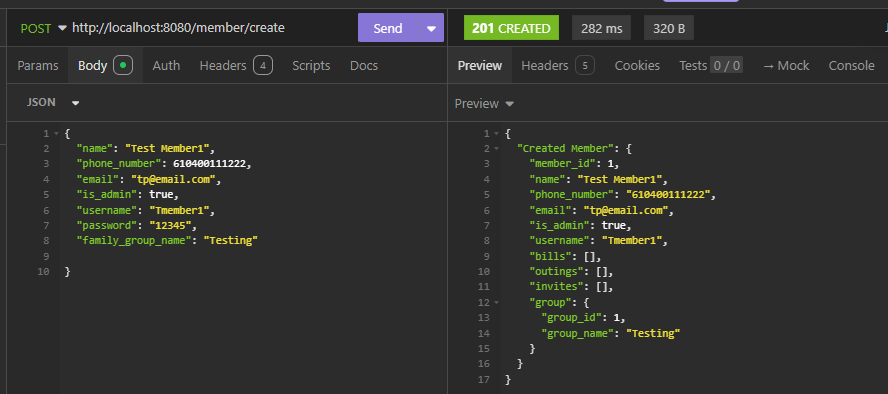
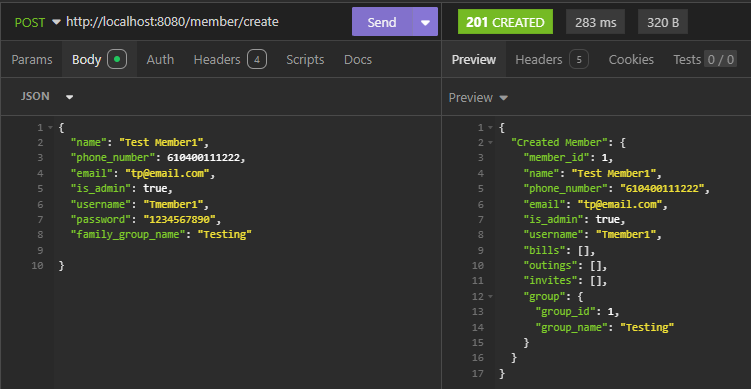
decided to add code to check password length for member create & member update

diff --git a/src/controllers/mem_controller.py b/src/controllers/mem_controller.py
@@ -25,6 +25,10 @@ def create_member():
             pass
         else:
             return {"Error": "Some fields are missing or empty = name, username, password & family group name must have data entered."}, 404
+        
+# check if the password length is between 8 and 12 characters
+        if not (8 <= len(password) <= 12):
+            return {"Error": "The password must be between 8 and 12 characters long. Please re-enter a new password."}, 400
 # checking if the member is going to be a administrator. If = true, then calls the create group function to create the group name entered.
         admin = body_data.get("is_admin")
         if admin:
@@ -116,6 +120,9 @@ def update_member(id):
             return {
             "Error": f"Member with id: {id} does not exist in your family group. Update not permitted."
         }, 404
+# check if the password length is between 8 and 12 characters
+        if not (8 <= len(password) <= 12):
+            return {"Error": "The password must be between 8 and 12 characters long. Please re-enter a new password."}, 400
 # if the member is a administrator then,
 # update the fields present in the json request or leave as current:
         if member2.is_admin:
@@ -139,7 +146,7 @@ def update_member(id):
     except ValidationError as err:
         return {"Error": f"These fields do not exist: {err}, please remove."}, 400
     except AttributeError:
-        return {"Error": "Invalid member token."},404
+        return {"Error": "Invalid member token or id entered."},404
 # this is the route location and method to be used to delete a member (must have a token):   
 @member_bp.route("/delete/<int:id>", methods= ["DELETE"])
 @jwt_required()

diff --git a/README.md b/README.md
@@ -290,6 +290,10 @@ How to use the Family Schedulers API endpoints are as follows:
 
 ![create member error handling](./docs/member_error_handling.png)
 
+        5. (During testing/coding) = decided to add code to check for the password length. If not between 8-12 characters = display error to advise member to change their password:
+
+![check password create](./docs/member_password_length.png)
+
 - #### 2. /member/login
     - Description: Allows a member to login to the application and creates a jwt_token.
     - HTTP Request Verb: POST
@@ -337,6 +341,10 @@ How to use the Family Schedulers API endpoints are as follows:
         5. Incorrect fields entered.
 
 ![member error 5](./docs/member-error_handling4.png)
+
+        6. (During testing/coding) = decided to add code to check for the password length. If not between 8-12 characters = display error to advise member to change their password:
+
+![check password update](./docs/member_update_check_password.png)
 
 - #### 5. /member/delete/id
     - Description: Allows a administrator member to delete the member from the database of the member id entered.
